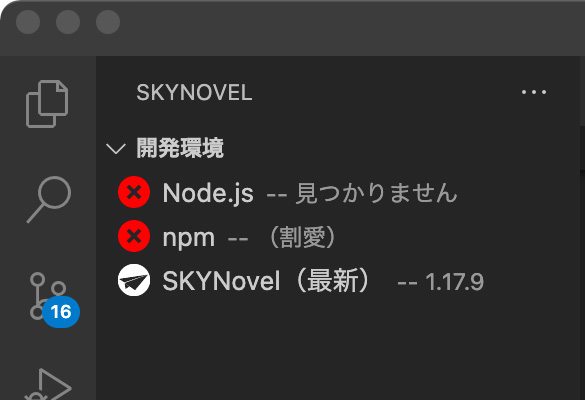
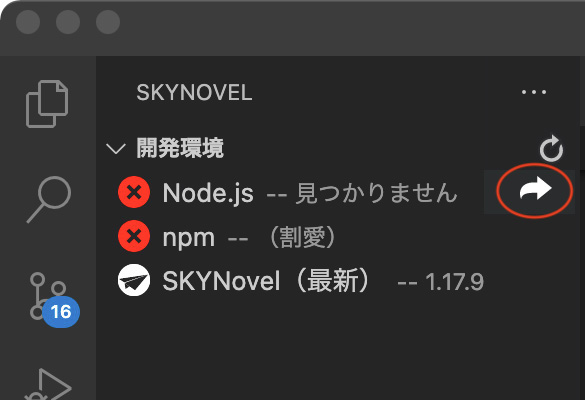
docs: インストール関係修正

diff --git a/docs/dev.htm b/docs/dev.htm
@@ -257,15 +257,18 @@
 <h4>Node.jsなどをインストールしていきます。</h4>
 <p class="mb2 px1">
 
-	　以降はネット環境が必須になります。<br/>
 	　左端の「Activity Bar」に拡張機能 SKYNovelの「丸に紙飛行機」ロゴマークが表示されているので、クリックして下さい。<br/>
 	<amp-img src="pic/inst_other1.jpg" width="125" height="590"></amp-img><br/>
 
 	　一番上に開発環境の状況が表示されています。エラーっぽい表示がされていますね。<br/>
 	　環境設定がまだすこし残っているわけです。<br/>
+	<br/>
+	　同時に「SKYNovel開発環境　準備の手引き」というページが開かれていますか？<br/>
+	　開かれていない場合は、【Node.js】の行にマウスカーソルを乗せたときに表示される【矢印ボタン】を押してください。<br/>
 	<amp-img src="pic/inst_other2.jpg" width="585" height="400"></amp-img><br/>
-
-	　同時に「SKYNovel開発環境　準備の手引き」というページが開かれていますので、あとはその指示に従ってインストールを続けて下さい。<br/>
+	
+	　図は「SKYNovel開発環境　準備の手引き」というページです。<br/>
+	　あとはその指示に従ってインストールを続けて下さい。<br/>
 	<amp-img src="pic/inst_other3.jpg" width="672" height="358"></amp-img><br/>
 
 	　すると……<br/>
